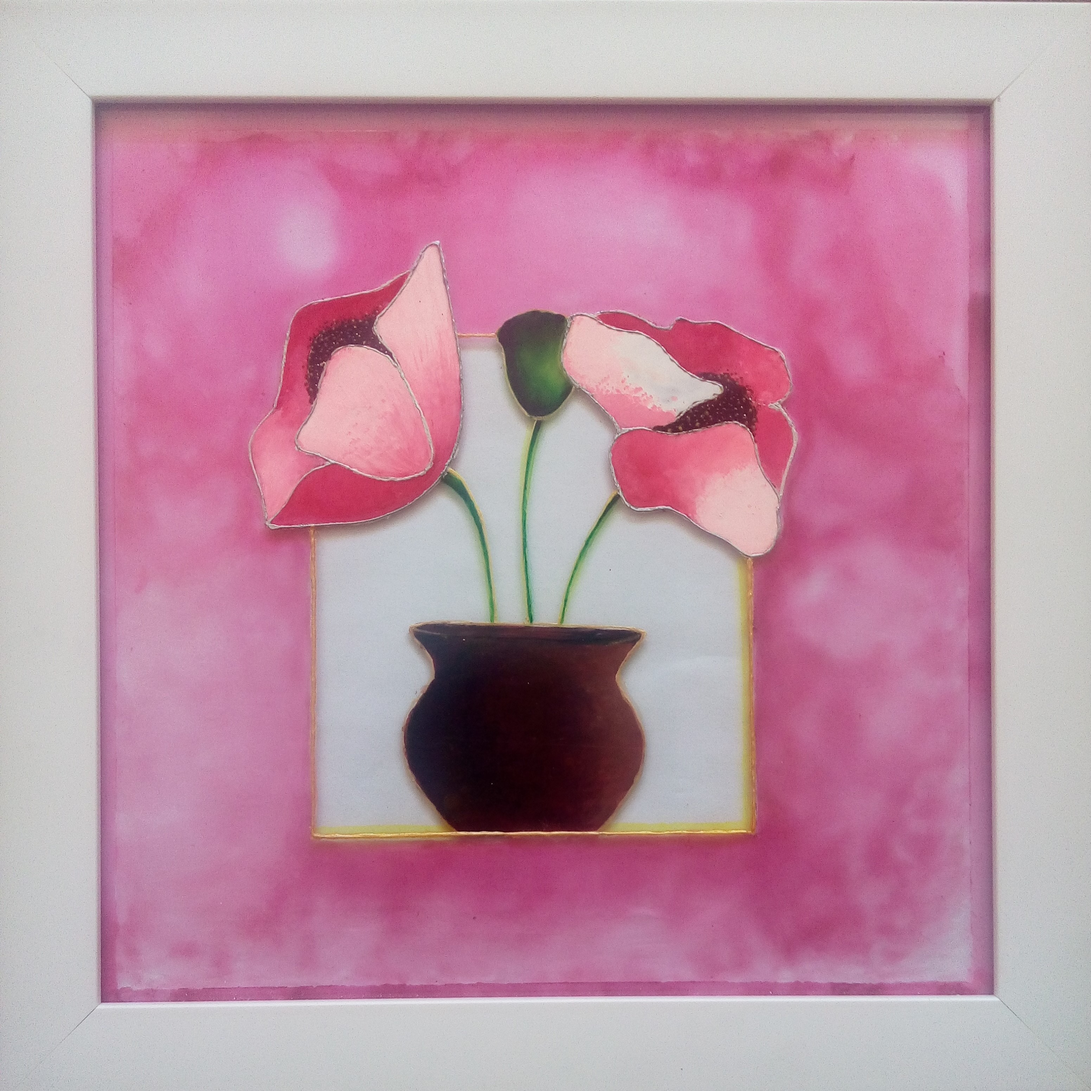
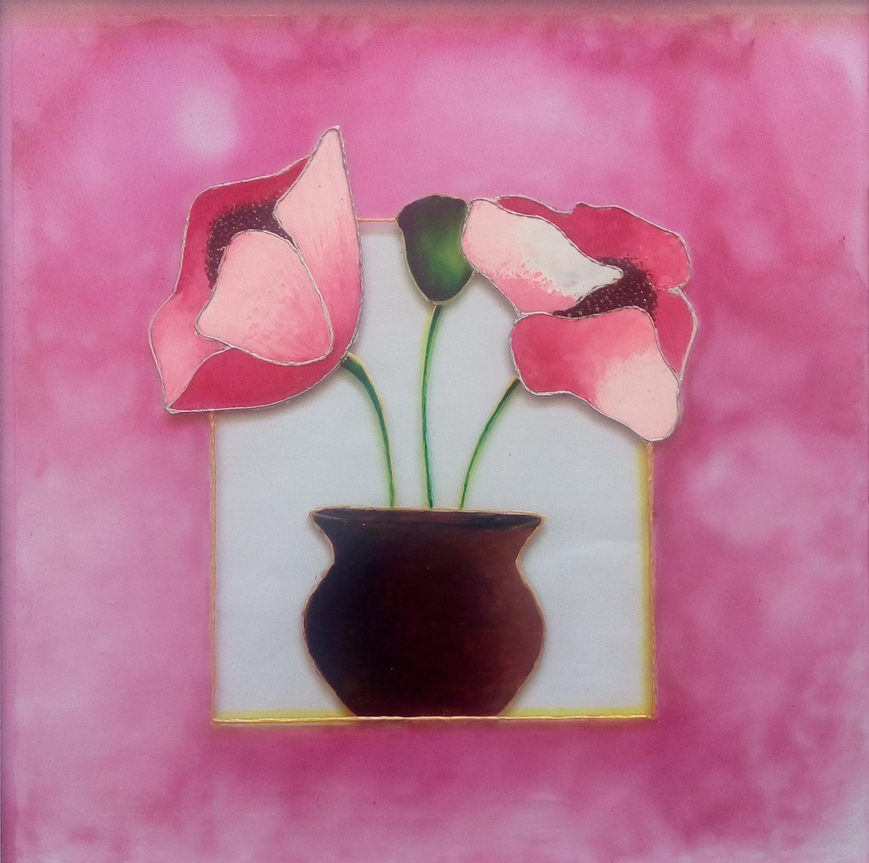
5th edit in content and texts

diff --git a/ChairDesign.html b/ChairDesign.html
@@ -117,21 +117,24 @@
         <!-- Left Projects Grid with 4 sections -->
         <div class="left-container">
             <!-- Section 1 -->
-            <div class="section-title">Figure 1</div>
-            <div class="section-line"></div>
-            <div class="grid-container">
-                <div class="grid-item"><img src="images/1.png" alt="Image 1"></div>
-                <div class="grid-item"><img src="images/2.png" alt="Image 2"></div>
-                <div class="grid-item"><img src="images/3.png" alt="Image 3"></div>
-            </div>
 
-            <!-- Section 2 -->
             <div class="section-title">Assembling</div>
             <div class="section-line"></div>
             <div class="grid-container">
                 <div class="grid-item"><img src="images/4.png" alt="Image 4"></div>
                 <div class="grid-item"><img src="images/5.png" alt="Image 5"></div>
                 <div class="grid-item"><img src="images/6.png" alt="Image 6"></div>
+            </div>
+            
+
+            <!-- Section 2 -->
+ 
+            <div class="section-title">Figure 1: Arranging for Single-Person Use</div>
+            <div class="section-line"></div>
+            <div class="grid-container">
+                <div class="grid-item"><img src="images/1.png" alt="Image 1"></div>
+                <div class="grid-item"><img src="images/2.png" alt="Image 2"></div>
+                <div class="grid-item"><img src="images/3.png" alt="Image 3"></div>
             </div>
 
             <!-- Section 3 -->
@@ -144,7 +147,7 @@
             </div>
 
             <!-- Section 4 -->
-            <div class="section-title">Figure 2</div>
+            <div class="section-title">Figure 2: Accommodating Multiple Users</div>
             <div class="section-line"></div>
             <div class="grid-container">
                 <div class="grid-item"><img src="images/10.png" alt="Image 10"></div>
@@ -158,10 +161,12 @@
             <h2>Chair Design: 2021 Seat Prize</h2>
             <div class="line"></div> <!-- Line under the title -->
             <div class="note-box">
-                <p>A single chair designed to accommodate both individual and group use through structural reconfiguration. Created for the 2021 Seat Prize competition in Isfahan, Iran and reached the final stage.</p>
+                <p>A chair designed to accommodate both individual and group use through structural reconfiguration. Created for the 2021 Seat Prize competition in Isfahan, Iran, where it reached the final stage.</p>
             </div>
             <div class="text-grey">
                 <p>Seat Prize 2021</p>
+                <p>Isfahan, Iran</p>
+                <p>Organized by: Ivan Cultural Group and Safavi House</p>
                 <p>March 2021</p>
             </div>
         </div>

diff --git a/CoworkingDesign.html b/CoworkingDesign.html
@@ -144,7 +144,7 @@
             </div>
 
             <!-- Section 2 -->
-            <div class="section-title">Adaptive reuse approach</div>
+            <div class="section-title">Adaptive Reuse Approach</div>
             <div class="section-line"></div>
             <div class="section-titles-container">
                 <div class="section-title-extra">Rainwater harvesting for energy-efficient heating</div>
@@ -156,7 +156,7 @@
             </div>
 
             <!-- Section 3 -->
-            <div class="section-title">Adaptable workspaces</div>
+            <div class="section-title">Adaptable Workspaces</div>
             <div class="section-line"></div>
             <div class="grid-container grid-container-4-cols">
                 <div class="grid-item"><img src="images/CoworkingObject1.svg" alt="Image 6"></div>
@@ -165,14 +165,14 @@
             </div>
 
             <!-- Section 4 -->
-            <div class="section-title">Section perspective</div>
+            <div class="section-title">Section Perspective</div>
             <div class="section-line"></div>
             <div class="grid-container">
                 <div class="grid-item merge"><img src="images/CoworkingSection.svg" alt="Merged Image 10"></div>
             </div>
 
             <!-- Section 5 -->
-            <div class="section-title">Final adaptive reuse transformation</div>
+            <div class="section-title">Final Adaptive Reuse Transformation</div>
             <div class="section-line"></div>
             <div class="grid-container">
                 <div class="grid-item"><img src="images/CoworkingRender1.png" alt="Image 11"></div>
@@ -189,8 +189,9 @@
                  <p>This project focused on designing an adaptive modular platform to repurpose a vacant factory into a dynamic workplace. Recycled materials and digital fabrication techniques were utilized to create modular, adaptable walls, tables, and chairs.</p>
             </div>
             <div class="text-grey">
-                <p>Final project</p>
-                <p>University of Art</p>
+                <p>Final Project, University of Art</p>
+                <p>Location: Vacant Mashhad Coca-Cola Factory, Mashhad, Iran</p>
+                    
                 <p>February 2022</p>
             </div>
         </div>

diff --git a/index.html b/index.html
@@ -274,7 +274,7 @@
             <div class="image-box">
                 <img src="images/intro-picture.jpg" alt="Mahsa Ghanad Torshizi" class="intro-picture">
                 <div class="note-box">
-                    <p>I am Mahsa Ghanad Torshizi, an architectural and interior designer focused on sustainable design and adaptive reuse. My work blends user-centered design with responsive architectural solutions. I strive to enhance human interactions within spaces through the use of smart technologies and sustainable practices.</p>
+                    <p>I am Mahsa Ghanad Torshizi, an architectural and interior designer concentrating on sustainable design and adaptive reuse. My work integrates user-centered design with responsive architectural solutions, aiming to enhance human interactions within spaces through the use of smart technologies and sustainable practices.</p>
                 </div>
             </div>
         </div>

diff --git a/EducationalDesign.html b/EducationalDesign.html
@@ -144,7 +144,7 @@
             </div>
 
             <!-- Section 2 -->
-            <div class="section-title">Adaptive reuse Approaches</div>
+            <div class="section-title">Adaptive Reuse Approach</div>
             <div class="section-line"></div>
             <div class="section-titles-container">
             
@@ -179,8 +179,8 @@
                 <p>This project aims to tackle the challenges of repurposing a historical building for educational use, focusing on adapting high ceilings and long brick corridors.</p>
             </div>
             <div class="text-grey">
-                <p>Interior Architectural Design 3</p>
-                <p>University of Art</p>
+                <p>Interior Architectural Design 3, University of Art</p>
+                <p>Location: A building in the historical site of Meidan Masgh, Tehran, Iran</p>
                 <p>January 2020</p>
             </div>
         </div>

diff --git a/Sketches.html b/Sketches.html
@@ -122,11 +122,10 @@
             <h2>Architectural Sketches</h2>
             <div class="line"></div>
             <div class="note-box">
-                <p>This section showcases architectural sketches and drawings that translate concepts into designs.</p>
+                <p>This section showcases hand-drawn architectural sketches, including plans, sections, and diagrams.</p>
             </div>
             <div class="text-grey">
-                <p>Architectural presentation</p>
-                <p>2018</p>
+               
             </div>
         </div>
     </div>

diff --git a/Paintings.html b/Paintings.html
@@ -105,7 +105,7 @@
             </div>
             <!-- Third grid section -->
             <div class="grid-section">
-                <div class="grid-item"><img src="images/GlassPainting.jpg" alt="Image 7"></div>
+                <div class="grid-item"><img src="images/glasspainting.jpg" alt="Image 7"></div>
             </div>
         </div>
 
